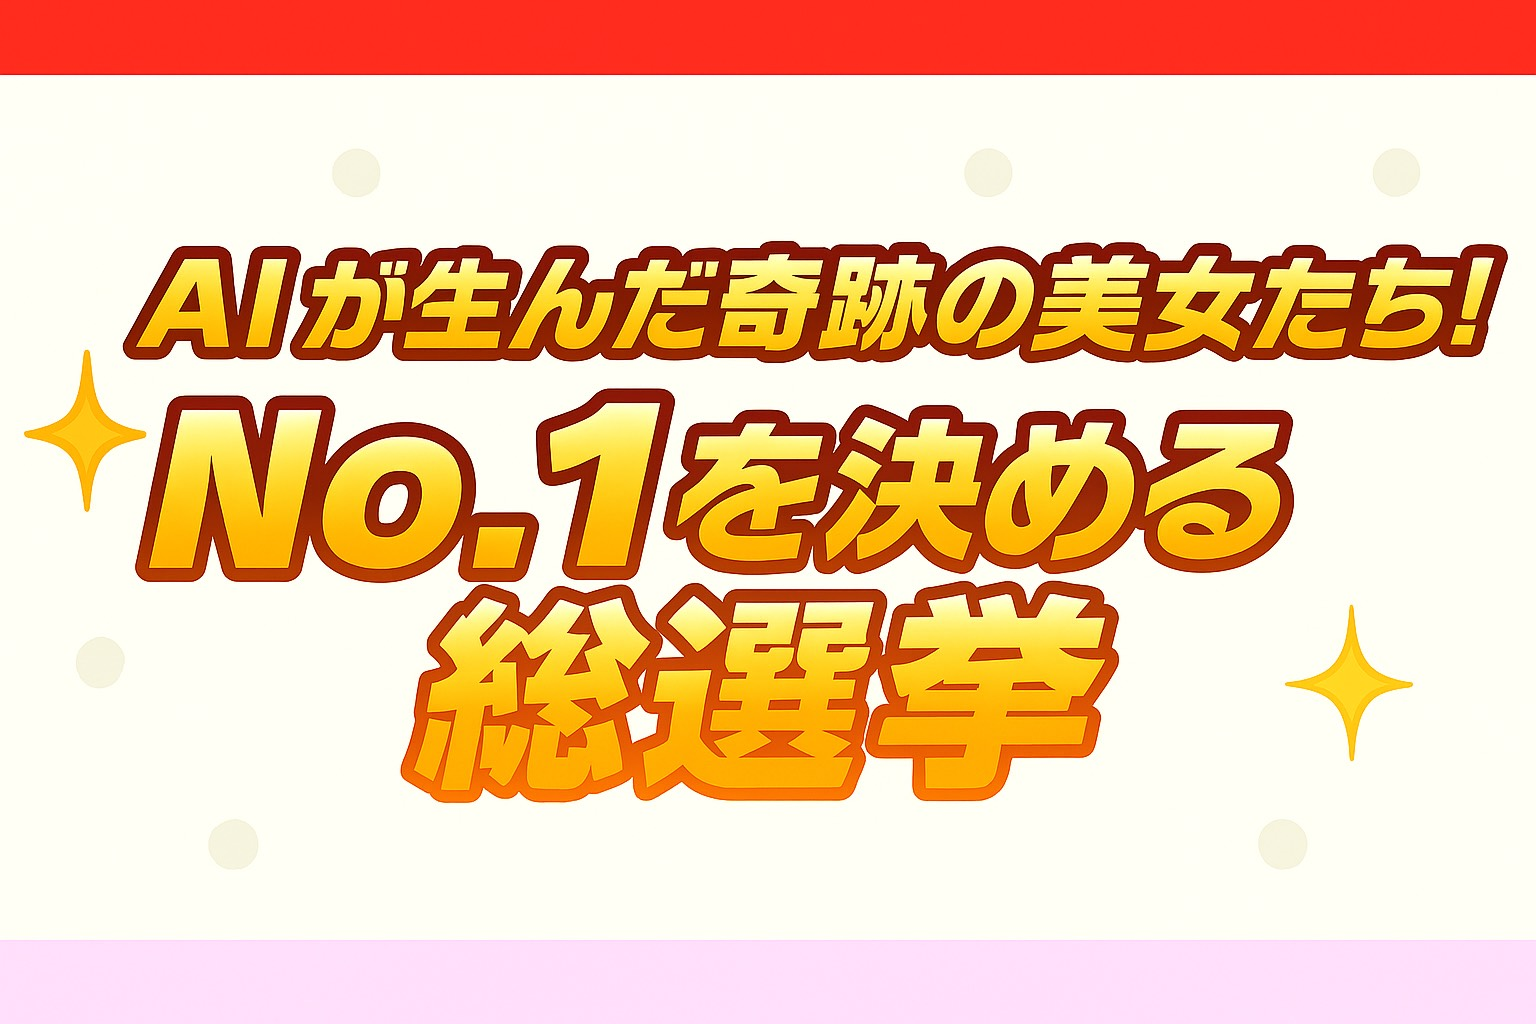
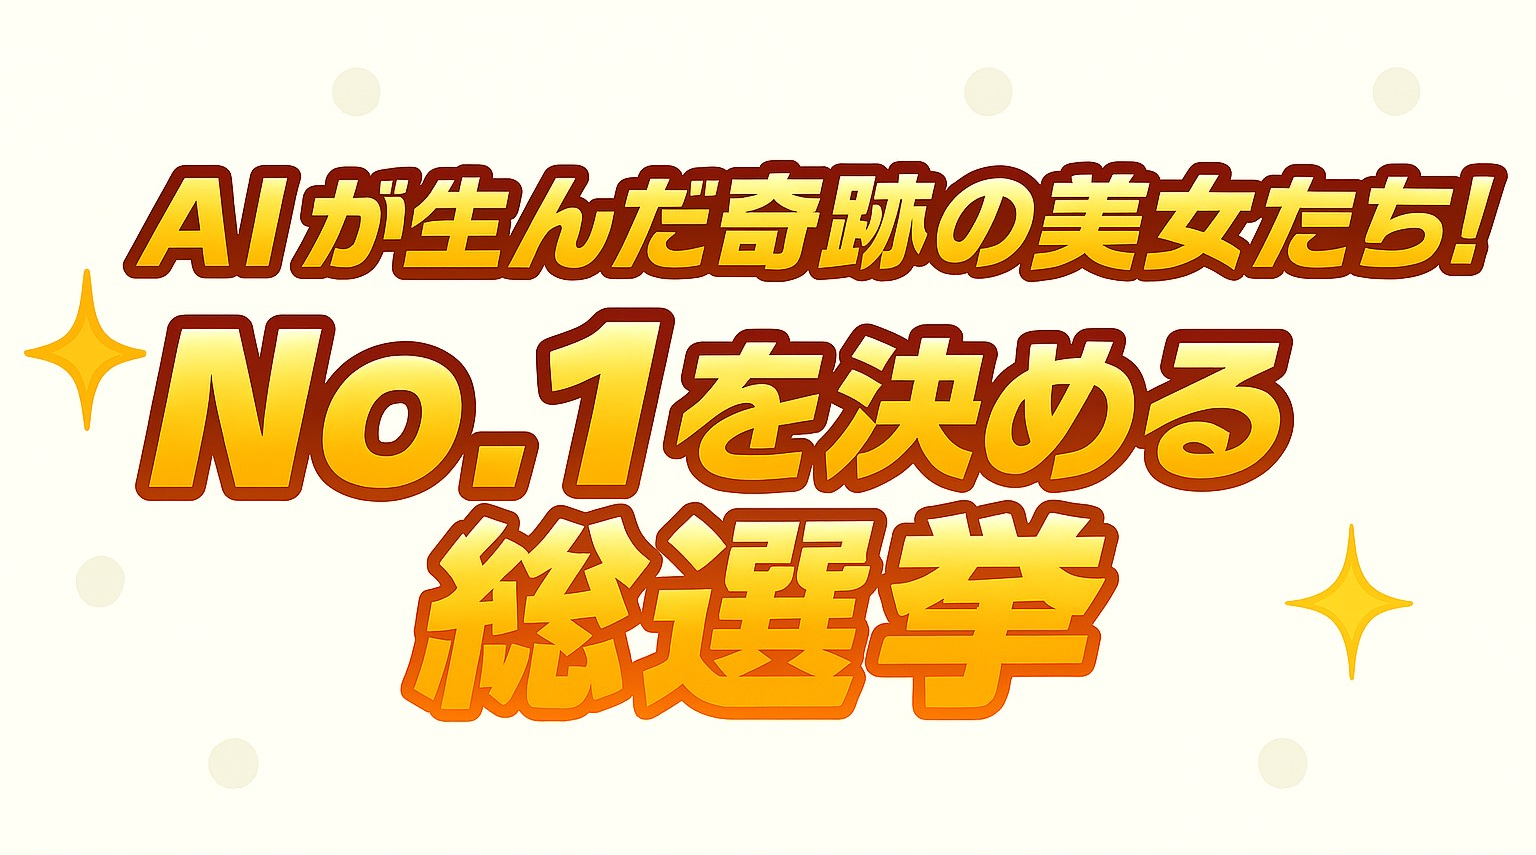
Gemini API連携と履歴ページ追加

diff --git a/public/style.css b/public/style.css
@@ -695,7 +695,7 @@ input[type="radio"] {
 }
 
 .header-banner {
-  display: flex;
+  display: block;
   align-items: center;
   padding: 4px 8px;
   background-color: #fffbe8;
@@ -704,27 +704,27 @@ input[type="radio"] {
 
 .aibijo-logo {
   width: 25%;       /* 横幅30% */
-  height: 150PX;     /* アスペクト比維持 */
+  height: 180px;     /* アスペクト比維持 */
   object-fit: contain;
 }
 
 .banner-right {
   width: 75%;       /* 横幅70% */
-  height: 150PX;
+  height: 180px;
   object-fit: contain;
 }
 
 /* スマホ表示対応 */
 @media (max-width: 600px) {
   .aibijo-logo {
-    width: 25%;       /* 横幅30% */
-    height: 80PX;     /* アスペクト比維持 */
+    width: 30%;       /* 横幅30% */
+    height: 110px;     /* アスペクト比維持 */
     object-fit: contain;
   }
 
   .banner-right {
-    width: 75%;       /* 横幅70% */
-    height: 80PX;
+    width: 70%;       /* 横幅70% */
+    height: 110px;
     object-fit: contain;
   }
 }
